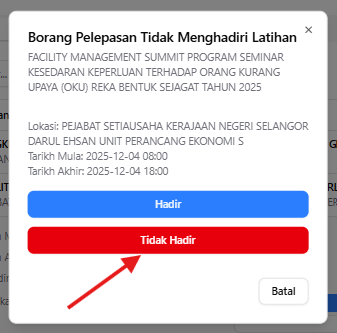
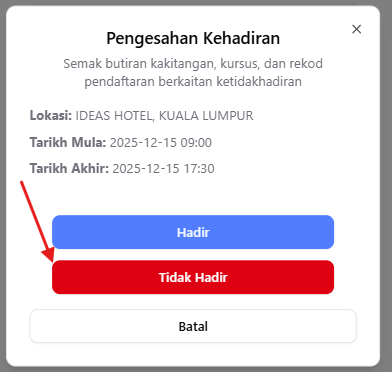
bugs updated

diff --git a/docs/kakitangan/latihan/daftar-ketidakhadiran.md b/docs/kakitangan/latihan/daftar-ketidakhadiran.md
@@ -8,10 +8,10 @@ Peserta latihan dapat melihat senarai latihan dan mendaftar kehadiran mereka.
 
 ::: tip Langkah 1
 1. Log masuk ke sistem
-2. Anda akan melihat **Papan Pemuka Pengguna** dengan tab-tab:
+2. Anda akan melihat **Dashboard Pengguna** dengan tab-tab:
    - **Hari Ini** - Latihan hari ini
    - **Akan Datang** - Latihan yang akan datang
-   - **Sejarah** - Latihan yang telah selesai
+   - **Senarai Latihan** - Latihan yang telah selesai
 3. Di halaman ini, anda dapat melihat senarai latihan yang telah dicalonkan
 :::
 ![Senarai Calon Latihan](/image/kakitangan/senarai-dicalonkan.png)
@@ -23,6 +23,7 @@ Peserta latihan dapat melihat senarai latihan dan mendaftar kehadiran mereka.
 ::: tip Langkah 1
 1. Pada papan pemuka, cari latihan yang ingin anda daftarkan kehadirannya
 2. Klik pada latihan atau butang **"Kehadiran"** 
+![Kehadiran](/image/kakitangan/kehadiran.png)
 3. Satu modal akan muncul memaparkan maklumat latihan dan pilihan kehadiran
 :::
 
@@ -41,13 +42,14 @@ Pilih salah satu:
 ![Pilih Kehadiran](/image/kakitangan/pilih-kehadiran2.png)
 
 ### 3. Muatnaik Bukti Kehadiran
-
 ::: tip Langkah 3
-1. Pada bahagian **"Muatnaik Gambar Bukti Kehadiran"**
-2. Klik butang **"Pilih Fail"** untuk memilih fail.
-3. Pilih fail bukti kehadiran (format: JPG, PNG, PDF)
-4. Saiz maksimum: 5MB
-5. Fail yang dipilih akan dipaparkan di bawah butang (contoh: "Dokumen Sokogan [Contoh].pdf")
+
+1. Nyatakan alasan ketidakhadiran ke latihan (jika berkaitan).
+2. Tandakan kotak pengesahan maklumat sebagai bukti persetujuan.
+3. Pada bahagian "Muat Naik Dokumen Sokongan":
+- Klik butang **"Choose File"**.
+- Pilih fail bukti kehadiran yang berkaitan dalam format JPG, PNG, atau PDF.
+- Saiz maksimum bagi setiap fail adalah 5MB.
 :::
 ![Bukti Hadir](/image/kakitangan/bukti-hadir.png)
 
@@ -62,8 +64,7 @@ Pilih salah satu:
 Jika berjaya:
 - Akan muncul mesej **"Kehadiran Direkodkan"**
 ![Hantar](/image/kakitangan/success2-hadir.png)
-- Status kehadiran akan berubah menjadi **"Hadir"** pada papan pemuka
-- Anda akan menerima pengesahan melalui sistem
+- Status kehadiran akan berubah menjadi **"Tidak Hadir"** pada papan pemuka
 
 Jika ada ralat:
 - Akan muncul mesej ralat merah: **"Sila pilih gambar untuk dimuat naik"**
@@ -74,7 +75,7 @@ Jika ada ralat:
 
 Selepas berjaya menghantar, status akan berubah:
 
-<!-- ![Status Kehadiran](/image/kakitangan/.png) -->
+![Status](/image/kakitangan/status-kehadiran2.png)
 
 ## Perkara Penting
 

diff --git a/docs/kakitangan/latihan/daftar-kedatangan.md b/docs/kakitangan/latihan/daftar-kedatangan.md
@@ -7,10 +7,10 @@ Peserta latihan dapat melihat senarai latihan dan mendaftar kehadiran mereka.
 
 ::: tip Langkah 1
 1. Log masuk ke sistem
-2. Anda akan melihat **Dashboard** dengan tab-tab:
+2. Anda akan melihat **Dashboard Pengguna** dengan tab-tab:
    - **Hari Ini** - Latihan hari ini
    - **Akan Datang** - Latihan yang akan datang
-   - **Sejarah** - Latihan yang telah selesai
+   - **Senarai Latihan** - Latihan yang telah selesai
 3. Di halaman ini, anda dapat melihat senarai latihan yang telah dicalonkan
 :::
 ![Senarai Calon Latihan](/image/kakitangan/senarai-dicalonkan.png)
@@ -22,6 +22,7 @@ Peserta latihan dapat melihat senarai latihan dan mendaftar kehadiran mereka.
 ::: tip Langkah 1
 1. Pada papan pemuka, cari latihan yang ingin anda daftarkan kehadirannya
 2. Klik pada latihan atau butang **"Kehadiran"** 
+![Kehadiran](/image/kakitangan/kehadiran.png)
 3. Satu modal akan muncul memaparkan maklumat latihan dan pilihan kehadiran
 :::
 
@@ -30,7 +31,7 @@ Peserta latihan dapat melihat senarai latihan dan mendaftar kehadiran mereka.
 ### 2. Pilih Status Kehadiran
 
 ::: tip Langkah 2
-Modal akan muncul dengan pertanyaan: **"Pengesahan Kehadiran Latihan"**
+Modal akan muncul dengan pertanyaan: **"Pengesahan Kehadiran"**
 
 Pilih salah satu:
 - **Hadir** (Butang Biru) - Jika anda akan hadir atau telah hadir di latihan
@@ -43,7 +44,7 @@ Pilih salah satu:
 
 ::: tip Langkah 3
 1. Pada bahagian **"Muatnaik Gambar Bukti Kehadiran"**
-2. Klik butang **"Pilih Fail"** untuk memilih fail.
+2. Klik butang **"Choose File"** untuk memilih fail.
 3. Pilih fail bukti kehadiran (format: JPG, PNG, PDF)
 4. Saiz maksimum: 5MB
 5. Fail yang dipilih akan dipaparkan di bawah butang (contoh: "Dokumen Sokogan [Contoh].pdf")
@@ -72,7 +73,7 @@ Jika ada ralat:
 
 Selepas berjaya menghantar, status akan berubah:
 
-<!-- ![Status Kehadiran](/image/kakitangan/.png) -->
+![Status](/image/kakitangan/status-kehadiran.png)
 
 ## Perkara Penting
 

diff --git a/docs/kakitangan/latihan/senarai-latihan.md b/docs/kakitangan/latihan/senarai-latihan.md
@@ -7,9 +7,9 @@ Pemohon boleh melihat senarai latihan yang pernah terlibat.
 ::: tip Langkah 1
 1. Log masuk ke sistem
 2. Anda akan melihat **Dashboard** dengan tab:
-   - **Sejarah** - Latihan yang telah terlibat
+   - **Senarai Latihan** - Latihan yang telah terlibat
 3. Di halaman ini, anda dapat melihat senarai latihan yang anda pernah hadir
-4. Klik tab **"Sejarah"** pada dashboard
+4. Klik tab **"Senarai Latihan"** pada dashboard
 5. Anda akan melihat senarai latihan yang sudah dilalui dengan maklumat berikut:
 :::
 ![Senarai Latihan](/image/kakitangan/senarai-latihan.png)
@@ -22,7 +22,7 @@ Pemohon boleh melihat senarai latihan yang pernah terlibat.
 
 ::: warning Nota 
 
-- Tab **Sejarah** hanya menunjukkan latihan yang telah tamat
-- Latihan di tab **Akan Datang** akan berpindah ke **Sejarah** selepas tarikh akhir latihan
+- Tab **Senarai Latihan** hanya menunjukkan latihan yang telah tamat
+- Latihan di tab **Akan Datang** akan berpindah ke **Senarai Latihan** selepas tarikh akhir latihan
 :::
 

diff --git a/docs/kakitangan/pengurusan-akaun/kemaskini-profil.md b/docs/kakitangan/pengurusan-akaun/kemaskini-profil.md
@@ -31,7 +31,7 @@ Sistem akan memaparkan maklumat profil sedia ada yang telah didaftarkan:
 
 ::: tip Langkah 3
 1. Isi atau kemaskini gambar pengguna klik butang **Choose Files**
-2. Klik butang **Upload** untuk menyimpan 
+2. Klik butang **Muat Naik** untuk menyimpan 
 3. Setelah berjaya dikemaskini, sistem akan memaparkan mesej "Avatar dikemas kini"
 :::
 
@@ -40,6 +40,7 @@ Sistem akan memaparkan maklumat profil sedia ada yang telah didaftarkan:
 ![Avatar](/image/kakitangan/success3-avatar.png)
 
 ::: warning Nota
+- Semua maklumat dipaparkan adalah dari Sistem SIM. Pastikan semua maklumat adalah tepat dan terkini.
 - Pastikan semua maklumat yang adalah tepat dan terkini.
 - Maklumat ini akan digunakan untuk pengisian borang permohonan.
 - Sesetengah maklumat seperti Nama Pengguna, Emel tidak boleh dikemaskini kerana ia adalah maklumat asas pendaftaran.

diff --git a/docs/kakitangan/pengurusan-permohonan/permohonan-latihan-luaran.md b/docs/kakitangan/pengurusan-permohonan/permohonan-latihan-luaran.md
@@ -52,7 +52,7 @@ Tulis dengan jelas dan ringkas tentang manfaat yang relevan dengan tugas kerja a
 Muat naik dokumen yang diperlukan untuk menyokong permohonan anda:
 
 ::: tip Langkah Muat Naik
-1. Klik butang **Choose Files** untuk memilih dokumen dari komputer anda
+1. Klik butang **Choose File** untuk memilih dokumen dari komputer anda
 2. Pilih fail yang akan dimuat naik (format: PDF, JPG, PNG)
 3. Saiz maksimum fail: 5MB
 :::
